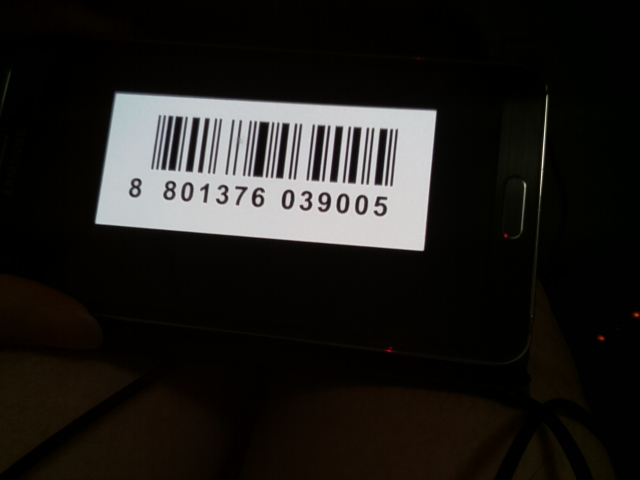
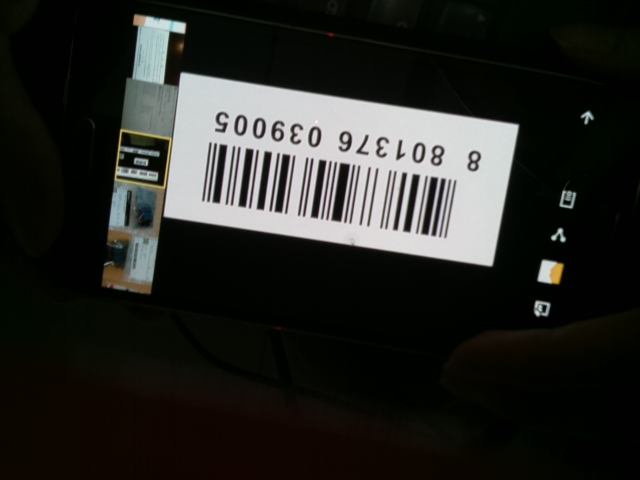
.

diff --git a/raspberryPi/controller/insert_coin_controller.py b/raspberryPi/controller/insert_coin_controller.py
@@ -9,10 +9,9 @@ import threading
 class Coin_thread(QtCore.QThread):
     def __init__(self, coin_sig, thread_finished):
         QtCore.QThread.__init__(self)
-        self.coin_acceptor = coin_acceptor.Coin_acceptor()
+        self.running = True
         self.coin_sig = coin_sig
         self.thread_finished = thread_finished
-        self.thread = threading.Thread(target=self.coin_acceptor.power_on)
 
     def __del__(self):
         self.wait()
@@ -20,26 +19,36 @@ class Coin_thread(QtCore.QThread):
     # stop accepting coin
     def stop(self):
         self.coin_acceptor.power_off()
-        self.thread.join() # wait for termination of thread
+        self.running = False
+        print("power off")
         self.terminate()
+        print("terminate")
+        self.thread.join() # wait for termination of thread
+        print("join complete")
+        self.thread_finished.emit()
+        print("signal emit")
 
     # running code
     def run(self):
+        self.coin_acceptor = coin_acceptor.Coin_acceptor()
         amount = 0
+        self.running = True
+        self.thread = threading.Thread(target=self.coin_acceptor.power_on)
         self.thread.start() # start tread
 
-        while True:
+        while self.running:
             if amount != self.coin_acceptor.ammount:
                 amount = self.coin_acceptor.ammount
                 self.coin_sig.emit(amount)
 
 class Insert_coin_controller(QtWidgets.QWidget):
     coin_sig = QtCore.pyqtSignal(int)
+    thread_finished = QtCore.pyqtSignal()
     
     def __init__(self, sig, parent=None):
         super(Insert_coin_controller, self).__init__(parent)
         self.amount = 0# inserted amount
-        self.thread_finished = QtCore.pyqtSignal()
+        
         self.sig = sig # signal object
         self.coin_thread = Coin_thread(self.coin_sig, self.thread_finished)
 
@@ -57,8 +66,10 @@ class Insert_coin_controller(QtWidgets.QWidget):
     def initSignal(self):
         self.ui_insert_coin.completeButton.clicked.connect(self.coin_thread.stop) # set complete button signal
         self.coin_sig.connect(self.display_number)  # set update signal
+        self.thread_finished.connect(self.complete_insert) # end process
 
     def complete_insert(self):
+        print("signal processed")
         self.sig.coin_insert_completed.emit(self.amount)
 
     # display specified number

diff --git a/raspberryPi/controller/main.py b/raspberryPi/controller/main.py
@@ -18,7 +18,7 @@ from util import widget, service_type
 class MainWindow(QtWidgets.QMainWindow):
     def __init__(self):
         super().__init__()
-        self.resize(800, 480)  # set window size
+        self.resize(640, 450)  # set window size
 
         self.central_widget = QtWidgets.QStackedWidget()  # use stacked widget
         self.setCentralWidget(self.central_widget)  # set widget
@@ -35,7 +35,8 @@ class MainWindow(QtWidgets.QMainWindow):
         # signal from other widgets
         self.sig = signal.Signal()
         self.sig.select_service.connect(self.select_service) # select service callback
-        self.sig.barcode_cognized.connect(self.process_barcode)
+        self.sig.barcode_cognized.connect(self.process_barcode) # barcode recognization completed
+        self.sig.coin_insert_completed.connect(self.proccess_inserted_point) # insert coin completed
         self.sig.error.connect(self.process_error) # error control callback
         self.sig.reset.connect(self.process_reset) # reset flow
 
@@ -99,10 +100,10 @@ class MainWindow(QtWidgets.QMainWindow):
 
         if self.client.current_state == self.service_type.Save:
             # code for save point to user and communicate with server
-            self.change_widget(self.widget_type.save_result)
+            self.change_widget(self.widget_type.save_result.value)
         elif self.client.current_state == self.service_type.Donate:
             # code for show organization list and save point to selected list
-            self.change_widget(self.widget_type.donate_result)
+            self.change_widget(self.widget_type.donate_result.value)
 
     def process_reset(self):
         # initiate client

diff --git a/raspberryPi/view/ui_intro.py b/raspberryPi/view/ui_intro.py
@@ -24,7 +24,7 @@ class Ui_Form(object):
         self.saveButton.setStyleSheet("QPushButton#pushButton { background-color: rgb(255, 255, 87) }")
         icon = QtGui.QIcon()
         # icon.addPixmap(QtGui.QPixmap("C:/Users/woorizip/Desktop/Qt Designer 관련/png/piggy-bank.png"), QtGui.QIcon.Normal, QtGui.QIcon.Off)
-        icon.addPixmap(QtGui.QPixmap(".\piggy-bank.png"), QtGui.QIcon.Normal, QtGui.QIcon.Off)
+        icon.addPixmap(QtGui.QPixmap("../view/piggy-bank.png"), QtGui.QIcon.Normal, QtGui.QIcon.Off)
         self.saveButton.setIcon(icon)
         self.saveButton.setIconSize(QtCore.QSize(150, 200))
         self.saveButton.setCheckable(True)
@@ -42,7 +42,7 @@ class Ui_Form(object):
         self.donateButton.setStyleSheet("QPushButton#pushButton2 { background-color: rgb(28, 252, 255) }")
         icon1 = QtGui.QIcon()
         # icon1.addPixmap(QtGui.QPixmap("C:/Users/woorizip/Desktop/Qt Designer 관련/png/donation.png"), QtGui.QIcon.Normal, QtGui.QIcon.Off)
-        icon1.addPixmap(QtGui.QPixmap(".\donation.png"), QtGui.QIcon.Normal, QtGui.QIcon.Off)
+        icon1.addPixmap(QtGui.QPixmap("../view/donation.png"), QtGui.QIcon.Normal, QtGui.QIcon.Off)
         self.donateButton.setIcon(icon1)
         self.donateButton.setIconSize(QtCore.QSize(150, 200))
         self.donateButton.setObjectName("donateButton")

diff --git a/raspberryPi/model/barcode_reader.py b/raspberryPi/model/barcode_reader.py
@@ -4,15 +4,15 @@
 #        python-zxing opensource
 
 import zxing
-# import picamera
+import picamera
 
 class BarcodeReader():
 
     def __init__(self):
-        # self.camera = picamera.PiCamera()
+        self.camera = picamera.PiCamera()
         # test path
-        self.reader = zxing.BarCodeReader("d:\zxing\zxing")
-        # self.reader = zxing.BarCodeReader("/home/pi/zxing/zxing")
+        # self.reader = zxing.BarCodeReader("d:\zxing\zxing")
+        self.reader = zxing.BarCodeReader("/home/pi/zxing/zxing")
         self.image_file = "../model/image.jpg"
         
     def take_picture(self):
@@ -30,7 +30,7 @@ class BarcodeReader():
             return True, barcode.data
 
     def run(self):
-        # self.take_picture()
+        self.take_picture()
         return self.parse_barcode()
         
         

diff --git a/raspberryPi/model/coin_acceptor.py b/raspberryPi/model/coin_acceptor.py
@@ -4,6 +4,7 @@
 # it provide interface power_on, power_off
 
 import RPi.GPIO as GPIO
+import time
 
 class Coin_acceptor():
     def __init__(self):
@@ -47,11 +48,12 @@ class Coin_acceptor():
         self.set_GPIO()
         # power on the relay
         GPIO.output(17, True)
+        time.sleep(0.1)
         self.reset()
 
         # get coin until switch is on
         while self.switch:
-            pass
+            time.sleep(0.1)
 
     # stop accepting coin and reset
     def power_off(self):

diff --git a/raspberryPi/controller/get_barcode_controller.py b/raspberryPi/controller/get_barcode_controller.py
@@ -9,7 +9,7 @@ class Get_barcode_controller(QtWidgets.QWidget):
     def __init__(self, sig, parent=None):
         super(Get_barcode_controller, self).__init__(parent)
         self.barcode_reader = barcode_reader.BarcodeReader()
-        self.timer = QtCore.QTimer
+        self.timer = QtCore.QTimer()
         self.sig = sig # signal object
         self.initUI()
         self.initTimer()
